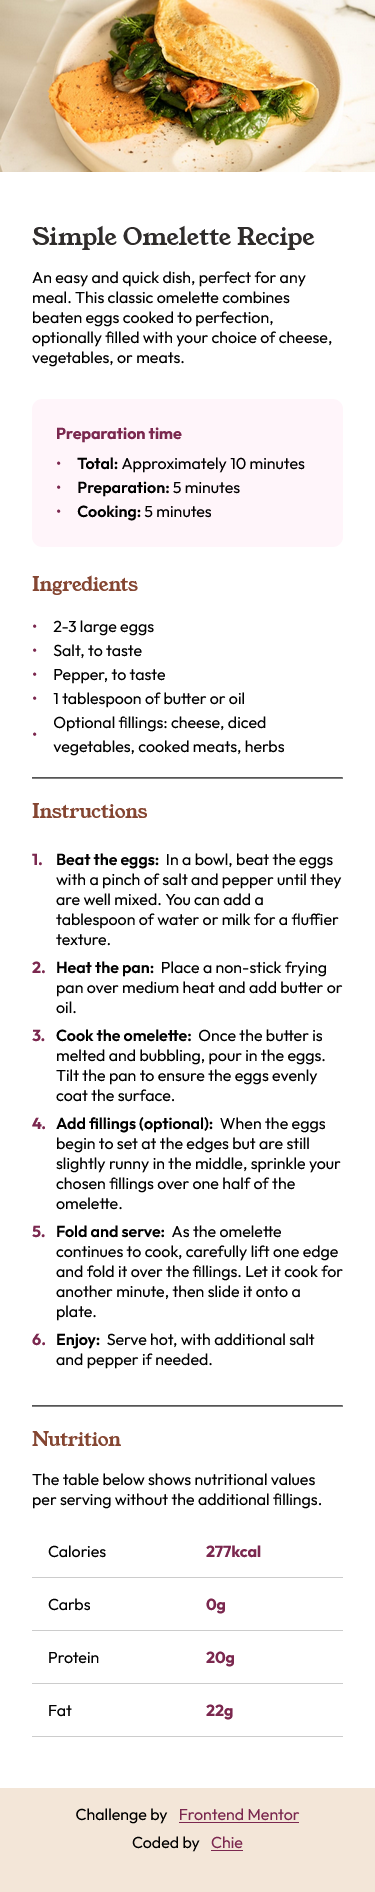
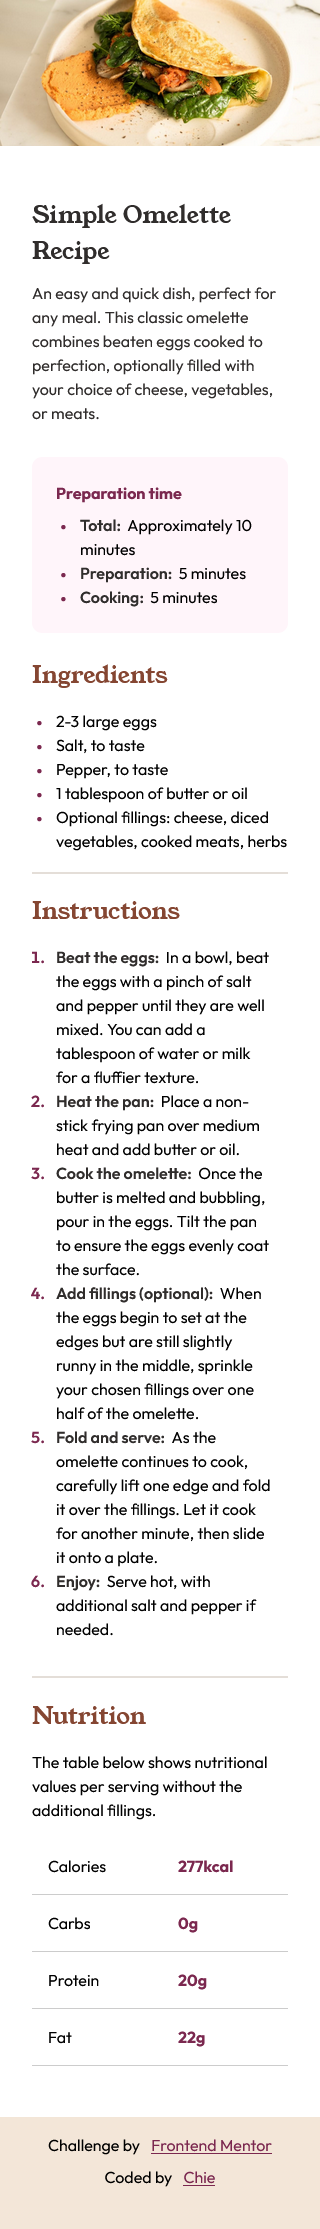
Updated UI structure and styles.

Changed region(s): [[0.0, 0.0, 1.0, 0.9979], [0.0938, 0.4678, 0.125, 0.5925], [0.0938, 0.686, 0.125, 0.7172]]

diff --git a/style.css b/style.css
@@ -14,6 +14,7 @@
 	--clr-brown-800: hsl(14, 45%, 36%);
 	--clr-rose-50: hsl(330, 100%, 98%);
 	--clr-rose-800: hsl(332, 51%, 32%);
+
 	--fs-body: 1rem;
 }
 * {
@@ -25,6 +26,7 @@ body,
 html {
 	background-color: var(--clr-stone-100);
 	height: 100vh;
+	line-height: 1.5;
 }
 img {
 	max-width: 100%;
@@ -35,7 +37,7 @@ img {
 	background-color: var(--clr-white);
 	max-width: 700px;
 	padding: 2rem;
-	border-radius: 10px;
+	border-radius: 20px;
 	margin: 2rem auto;
 }
 h1,
@@ -54,8 +56,10 @@ h1 {
 	color: var(--clr-stone-900);
 	line-height: 1.5;
 	padding: 0.5em 0;
+	font-size: 2rem;
 }
 h3 {
+	font-size: 1.5rem;
 	color: var(--clr-brown-800);
 }
 .dish-name > p {
@@ -74,24 +78,30 @@ h3 {
 	padding-bottom: 0.5em;
 	font-weight: var(--fw-body-700);
 }
-ul {
-	list-style-type: none;
-	padding: 0;
+.prep-time ul {
+	padding-left: 1em;
 }
-ul li {
-	display: flex;
-	align-items: center;
-	padding: 0.5em 0;
-	line-height: 1.5;
+hr {
+	border: none;
+	height: 2px;
+	background-color: var(--clr-stone-150);
 }
-ul li::before {
-	content: "\2022";
-	font-size: 1em;
+ol {
+	padding: 1em;
+}
+ul li::marker {
 	color: var(--clr-rose-800);
-	margin-right: 1em;
-	display: flex;
-	align-items: center;
+	font-size: 0.8em;
 }
+ul li,
+ol li {
+	padding-left: 0.5em;
+}
+ol li::marker {
+	font-weight: var(--fw-body-600);
+	color: var(--clr-rose-800);
+}
+
 span {
 	font-weight: var(--fw-body-600);
 	margin-right: 0.2em;
@@ -99,31 +109,13 @@ span {
 	color: var(--clr-stone-900);
 }
 .ingredients ul {
-	padding: 1rem 0 1.2rem 0;
+	padding: 1rem 0 1.2em 1em;
 }
 .instructions,
 .nutrition {
-	padding: 1.2rem 0;
+	padding: 1.2em 0;
 }
-ol {
-	counter-reset: item;
-	padding: 1rem 0;
-	list-style: none;
-}
-ol li {
-	counter-increment: item;
-	position: relative;
-	padding: 1em 0 0 1.5em;
-	line-height: 1.5;
-}
-ol li::before {
-	content: counter(item) ".";
-	font-weight: var(--fw-body-700);
-	color: var(--clr-rose-800);
-	padding-right: 0.5em;
-	position: absolute;
-	left: 0;
-}
+
 table {
 	width: 100%;
 	border-collapse: collapse;
@@ -155,7 +147,7 @@ td {
 	padding-left: 0.5em;
 }
 
-@media only screen and (max-width: 375px) {
+@media (max-width: 760px) {
 	img {
 		width: 100%;
 		height: auto;
@@ -169,5 +161,8 @@ td {
 	}
 	.recipe-page {
 		padding: 2em;
+	}
+	h1 {
+		font-size: 1.5rem;
 	}
 }

diff --git a/README.md b/README.md
@@ -22,15 +22,15 @@ This is a solution to the [Recipe page challenge on Frontend Mentor](https://www
 
 ### Screenshot
 - This is what I came up with.
----> desktop version ![](./solution/recipe-page-full.png)
+---> desktop version ![](./solution/recipe-page-desktop.png)
 ---> mobile version ![](./solution/recipe-page-mobile.png)
 
 ### Links
-- Solution URL: [Add solution URL here](https://your-solution-url.com)
-- Live Site URL: [Add live site URL here](https://your-live-site-url.com)
+- Solution URL: [FM-Recipe-page Repo](https://github.com/cos-0000/fm-recipe-page)
+- Live Site URL: [FM-Recipe-page Site](https://cos-0000.github.io/fm-recipe-page/)
 
 ## My process
-- First, I started by analyzing the structure of the page based on the images provided. Then, I built it according to the flow of the recipe page using semantic HTML. Next, I added the styles and placed it in css variables. After ensuring that all of the styles I need are included, I started developing the page. I initialized git to manage the version history and uploaded my local version to my remote repository on my github account. I started styling the page from bottom to top, but I got stuck on the ol and ul elements since there are some modifications that I have to do to match the design. After I achieved what I am going for, I proceeded to fixing the mobile responsiveness of the page. After being statisfied with the outcome, I uploaded the recipe page on github pages.
+- First, I started by analyzing the structure of the page based on the images provided. Then, I built it according to the flow of the recipe page using semantic HTML. Next, I added the styles and placed it in css variables. After ensuring that all of the styles I need are included, I started developing the page. I initialized git to manage the version history and uploaded my local version to my remote repository on my github account. After I achieved what I am going for, I proceeded to fixing the mobile responsiveness of the page and then uploaded the recipe page on github pages.
 
 ### Built with
 - Semantic HTML5 markup
@@ -39,39 +39,8 @@ This is a solution to the [Recipe page challenge on Frontend Mentor](https://www
 - Mobile-first workflow
 
 ### What I learned
-- I had a difficulty dealing with the modifications that I need to do for ol and ul elements, such as making the bullet smaller and changing its color, as well as the font-weight styling and space in between the number and the li element's text for the ol element. Luckily, the ::before pseudo element came in handy. I first used the ::marker pseudo element, but I cannot apply font-weight, margin, and padding properties to it due to its restrictions. I had to use edge's Copilot to seek for answers quickly since I also had additional questions. Through using it, I was also able to fully understand the fix. This was also my first time to use the counter-reset and counter-increment properties so this was a really fun experience.
+- how to manipulate ol and ul elements and how to use the ::marker pseudo code
 
-Here are the code for the ul and ol modifications I did:
-
-```css
-ul li::before {
-	content: "\2022";
-	font-size: 1em;
-	color: var(--clr-rose-800);
-	margin-right: 1em;
-	display: flex;
-	align-items: center;
-}
-
-ol {
-	counter-reset: item;
-	padding: 1rem 0;
-	list-style: none;
-}
-ol li {
-	counter-increment: item;
-	position: relative;
-	padding: 0.5em 0 0 1.5em;
-}
-ol li::before {
-	content: counter(item) ".";
-	font-weight: var(--fw-body-700);
-	color: var(--clr-rose-800);
-	padding-right: 0.5em;
-	position: absolute;
-	left: 0;
-}
-```
 
 ### Continued development
 -I still have a lot to explore in front-end development, but I am really interested in making web motion designs.
